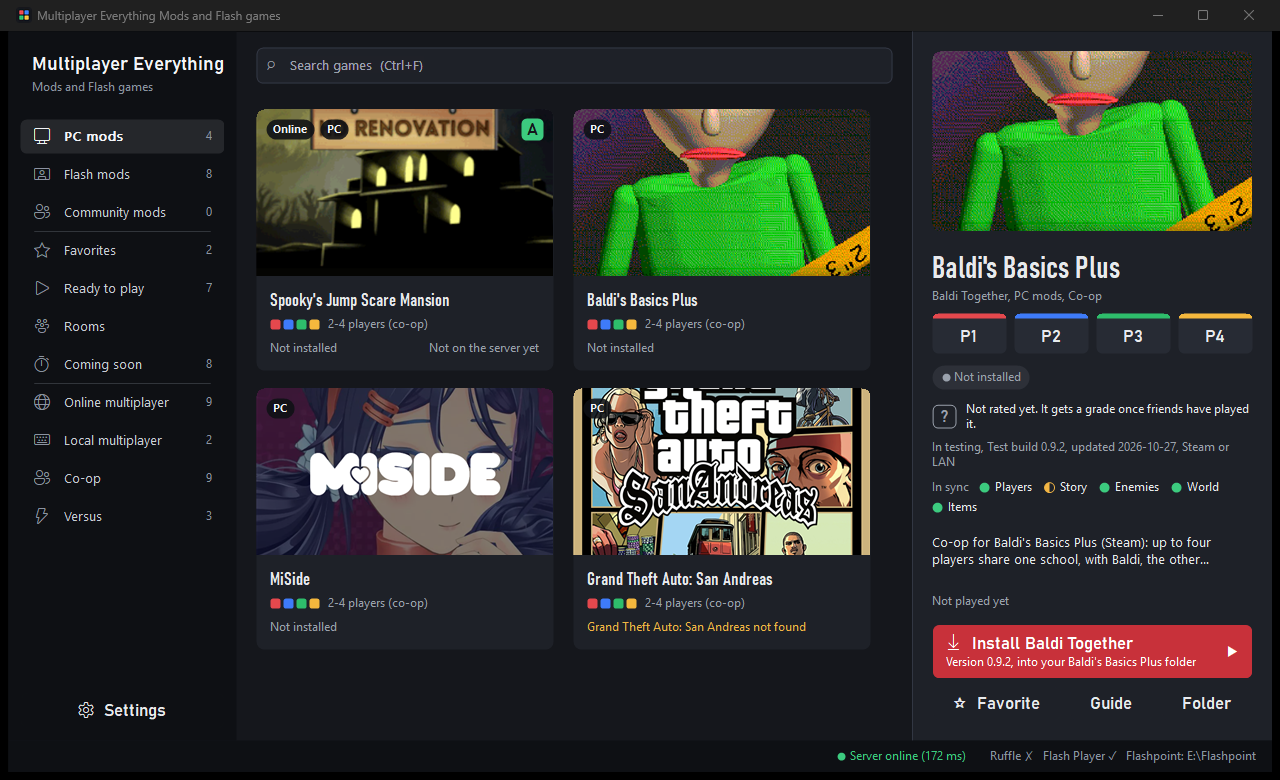
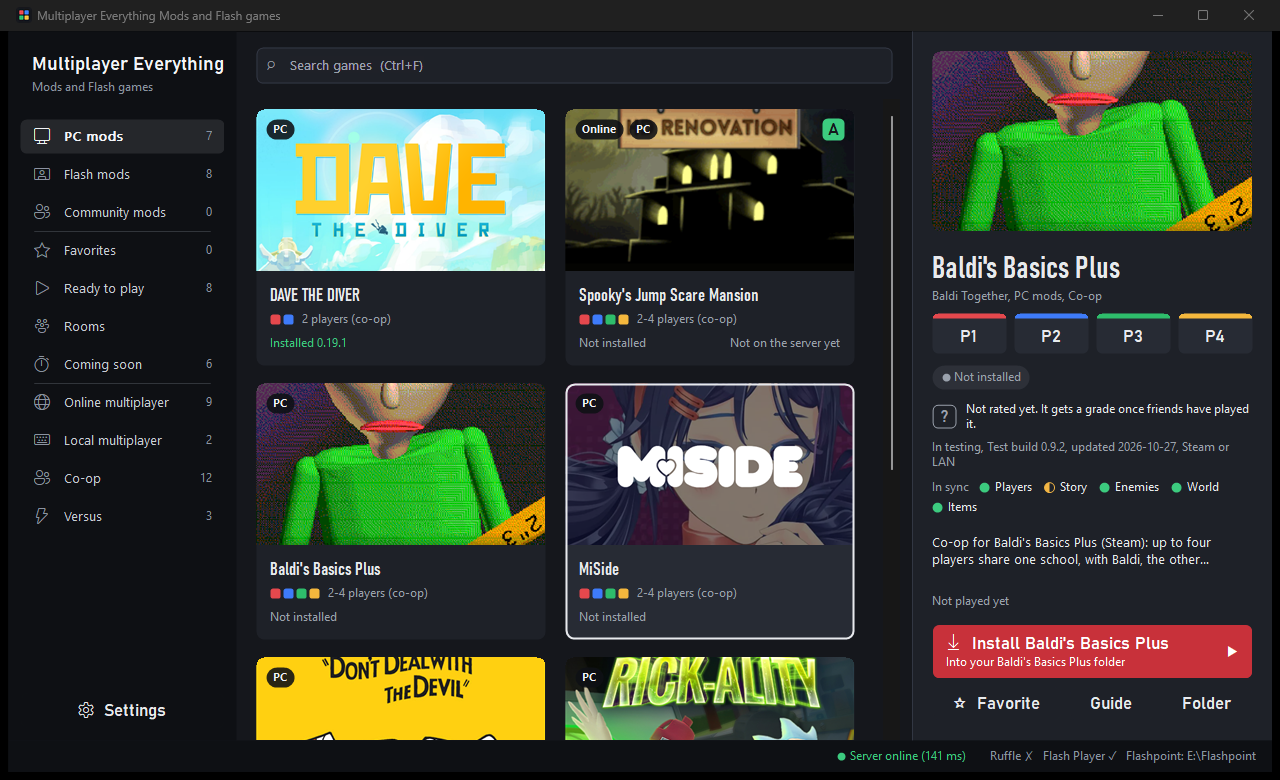
Version 1.0.1: watch the game, name the game, say when updates can't be checked
- The launcher looks every two seconds whether a PC mod's game is running, so
  "Close <game> first" appears and goes away by itself, and it counts the play
  time while the game runs (it showed 0 s before).
- The Install button uses the game's name ("Install MiSide"), like the card.
- When GitHub refuses a lookup (its hourly limit, no connection) the mod's
  status says it can't check for updates instead of silently showing an old
  newest version.

diff --git a/src/ui/launcher_mods.cpp b/src/ui/launcher_mods.cpp
@@ -41,6 +41,26 @@ bool Launcher::gameReady(int gi) const {
     return lib_.gameState(cfg_.games[gi], user_) == ActionState::Ready;
 }
 
+void Launcher::pollModGames() {
+    if (snapshot_ || installing_) return;
+    bool selectedChanged = false, played = false, stopped = false;
+    for (auto& [gi, view] : mods_) {
+        if (!view.status.game.found()) continue;  // nothing to watch for a game that isn't on this PC
+        bool running = sys::isProcessRunning(modSpec(gi).game.processNames);
+        if (running) {
+            user_.stats(cfg_.games[gi].id).seconds += 2;  // this poll runs every two seconds
+            played = true;
+        }
+        if (running == view.status.running) continue;
+        view.status.running = running;
+        if (gi == selected_) selectedChanged = true;
+        if (!running) stopped = true;
+    }
+    if (stopped || (played && ++modSaveTick_ % 15 == 0)) save();  // when it closes, else about every half minute
+    if (selectedChanged) select(selected_);          // the buttons say whether the game has to be closed
+    else if (played) InvalidateRect(hwnd_, &detail_, FALSE);
+}
+
 void Launcher::refreshMods() {
     for (size_t i = 0; i < cfg_.games.size(); ++i) {
         if (!cfg_.games[i].mod) continue;
@@ -122,6 +142,11 @@ std::wstring Launcher::modStateText(int gi, Color& color) const {
         if (modUpdateAvailable(gi)) {
             color = theme_.c.online;
             return spec.t("mod.status.update", vars);
+        }
+        // GitHub refused the lookup (its hourly limit, or no connection): say so, the newest version shown may be old.
+        if (v->source.stale) {
+            color = theme_.c.warning;
+            return spec.t("mod.status.installedStale", vars);
         }
         color = theme_.c.success;
         return spec.t("mod.status.installed", vars);

diff --git a/src/core/config.cpp b/src/core/config.cpp
@@ -167,7 +167,7 @@ const std::vector<std::pair<std::string, std::wstring>>& defaultTexts() {
         // PC game mods in the window.
         {"mod.update", L"Update to ${VERSION}"},
         {"mod.update.sub", L"You have ${INSTALLED}"},
-        {"mod.install", L"Install ${MOD_NAME}"},
+        {"mod.install", L"Install ${GAME_NAME}"},
         {"mod.install.sub", L"Version ${VERSION}, into your ${GAME_NAME} folder"},
         {"mod.install.subUnknown", L"Into your ${GAME_NAME} folder"},
         {"mod.launch", L"Launch game"},
@@ -180,6 +180,7 @@ const std::vector<std::pair<std::string, std::wstring>>& defaultTexts() {
         {"mod.uninstall.sub", L"Restore the files the mod replaced"},
         {"mod.status.notInstalled", L"Not installed"},
         {"mod.status.installed", L"Installed ${INSTALLED}"},
+        {"mod.status.installedStale", L"Installed ${INSTALLED}, can't check for updates right now"},
         {"mod.status.update", L"Update ${VERSION} available"},
         {"mod.status.noGame", L"${GAME_NAME} not found"},
         {"mod.status.notPublished", L"Not published yet"},

diff --git a/src/app/main.cpp b/src/app/main.cpp
@@ -134,7 +134,8 @@ int runModCommand(const Args& a, const Config& cfg, Library& lib, UserData& user
             out(L"    installed: " + (st.installed ? st.installedVersion : std::wstring(L"no")) +
                 (st.problem.empty() ? L"" : L"  (" + st.problem + L")") + L"\n");
             if (!st.missing.empty()) out(L"    needs: " + st.missing + L"\n");
-            out(L"    newest: " + (!known ? L"unknown (" + err + L")" : src.published() ? src.version : std::wstring(L"not published yet")) + L"\n");
+            out(L"    newest: " + (!known ? L"unknown (" + err + L")" : src.published() ? src.version : std::wstring(L"not published yet")) +
+                (known && src.stale ? L"  (couldn't ask GitHub just now: this is the last answer)" : L"") + L"\n");
         }
         return 0;
     }

diff --git a/src/ui/launcher.h b/src/ui/launcher.h
@@ -292,6 +292,10 @@ private:
     const ModView* modView(int gi) const;
     bool gameReady(int gi) const;  // playable: a Flash game that can start, or an installed mod
     void refreshMods();
+    // A PC mod's game is opened and closed outside the launcher too (Steam, the desktop): look again every
+    // two seconds, so "Close <game> first" appears and goes away by itself, and count the time it runs.
+    void pollModGames();
+    int modPollTick_ = 0, modSaveTick_ = 0;
     void startModsFetch();
     void onModsFetched();
     bool modUpdateAvailable(int gi) const;

diff --git a/src/core/mod/manager.h b/src/core/mod/manager.h
@@ -50,6 +50,9 @@ struct Source {
     std::wstring version, url, sha256;
     std::vector<ExtraDownload> extras;  // loader packages etc., unpacked beside it
     std::wstring minVersion, notice;  // from mods-info, for the window
+    // The newest version couldn't be looked up just now (GitHub's hourly limit, no connection): this is the
+    // last answer heard, which may be old.
+    bool stale = false;
     bool published() const { return !url.empty() && !version.empty(); }
 };
 // The newest package: the spec's own pinned package, else what mods-info says.

diff --git a/src/ui/launcher_events.cpp b/src/ui/launcher_events.cpp
@@ -310,6 +310,7 @@ LRESULT Launcher::handle(UINT m, WPARAM w, LPARAM l) {
                 toastFrom_ = 0;
                 ShowWindow(toast_, SW_HIDE);
             }
+            if (++modPollTick_ % 2 == 0) pollModGames();
             if (!sessions_.empty() || (noticeUntil_ && GetTickCount64() >= noticeUntil_)) {
                 if (GetTickCount64() >= noticeUntil_) noticeUntil_ = 0;
                 InvalidateRect(hwnd_, &status_, FALSE);

diff --git a/src/core/mod/manager.cpp b/src/core/mod/manager.cpp
@@ -269,6 +269,7 @@ bool resolveSource(const Spec& spec, const std::wstring& modsInfoBase, Source& o
     if (have) {  // GitHub says no (rate limit, offline): the last answer is still a good one
         logger().warn(L"GitHub didn't answer (" + error + L"); using the last known release of " + spec.mod.id);
         out = cached;
+        out.stale = true;
         error.clear();
         return true;
     }
